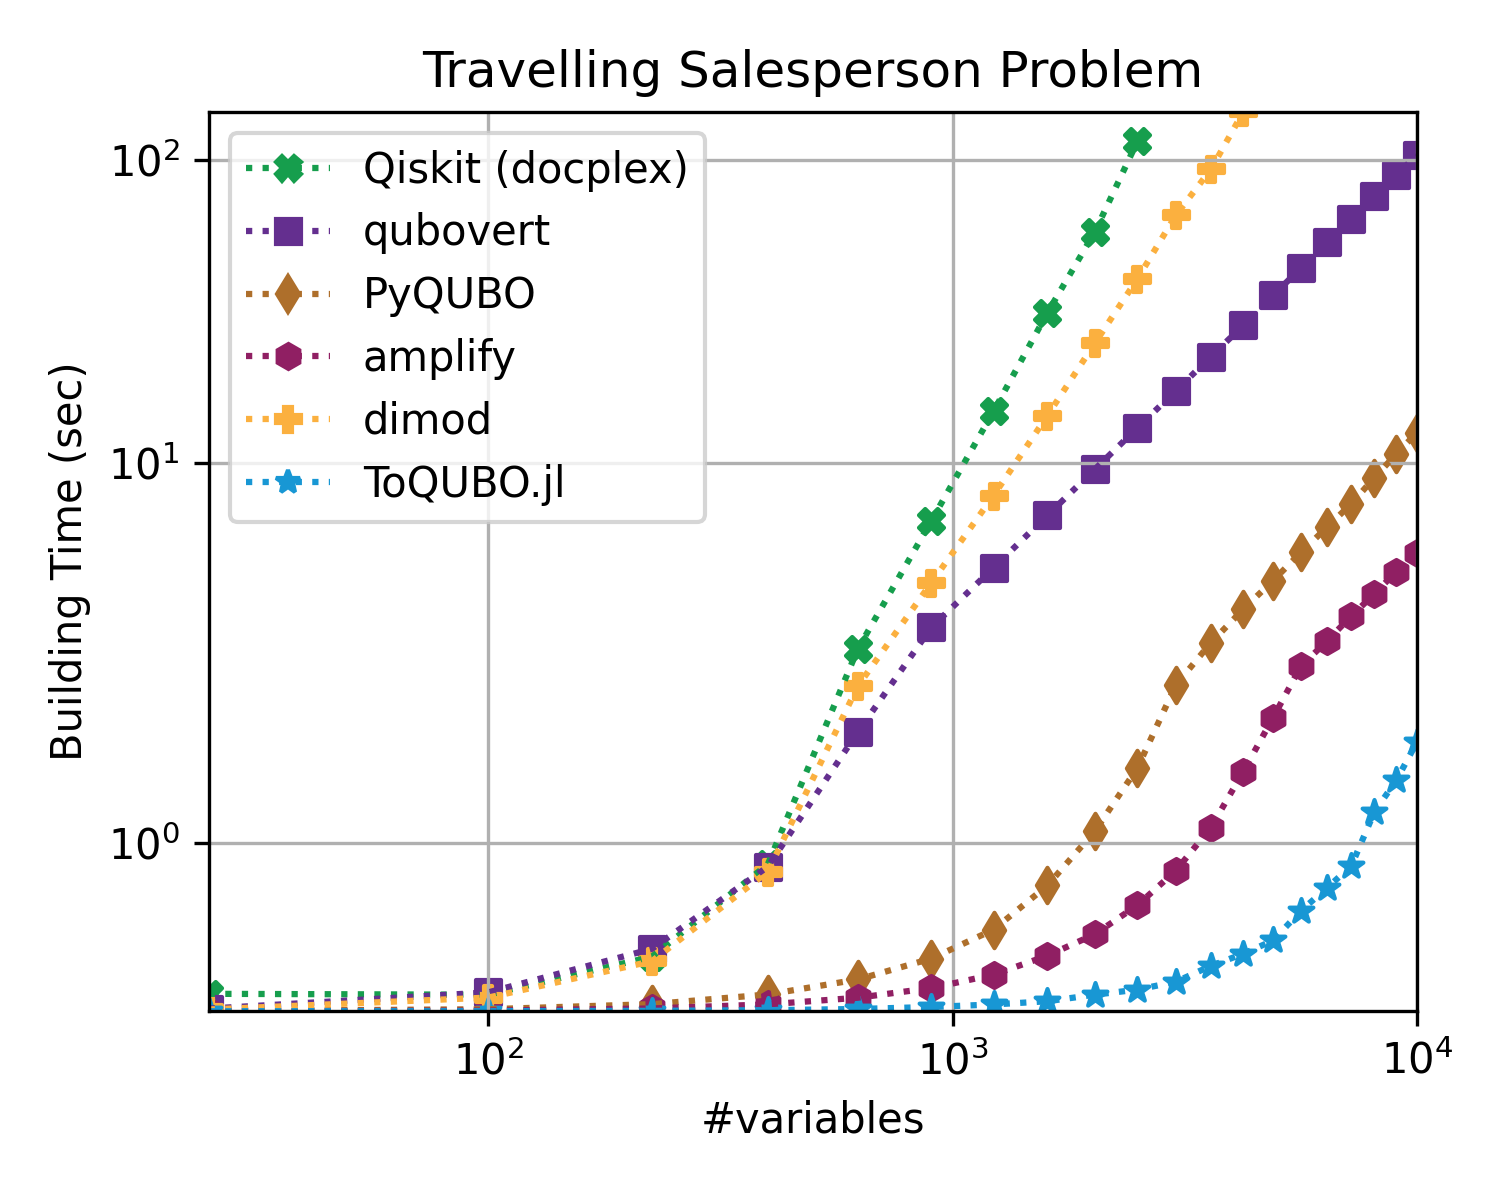
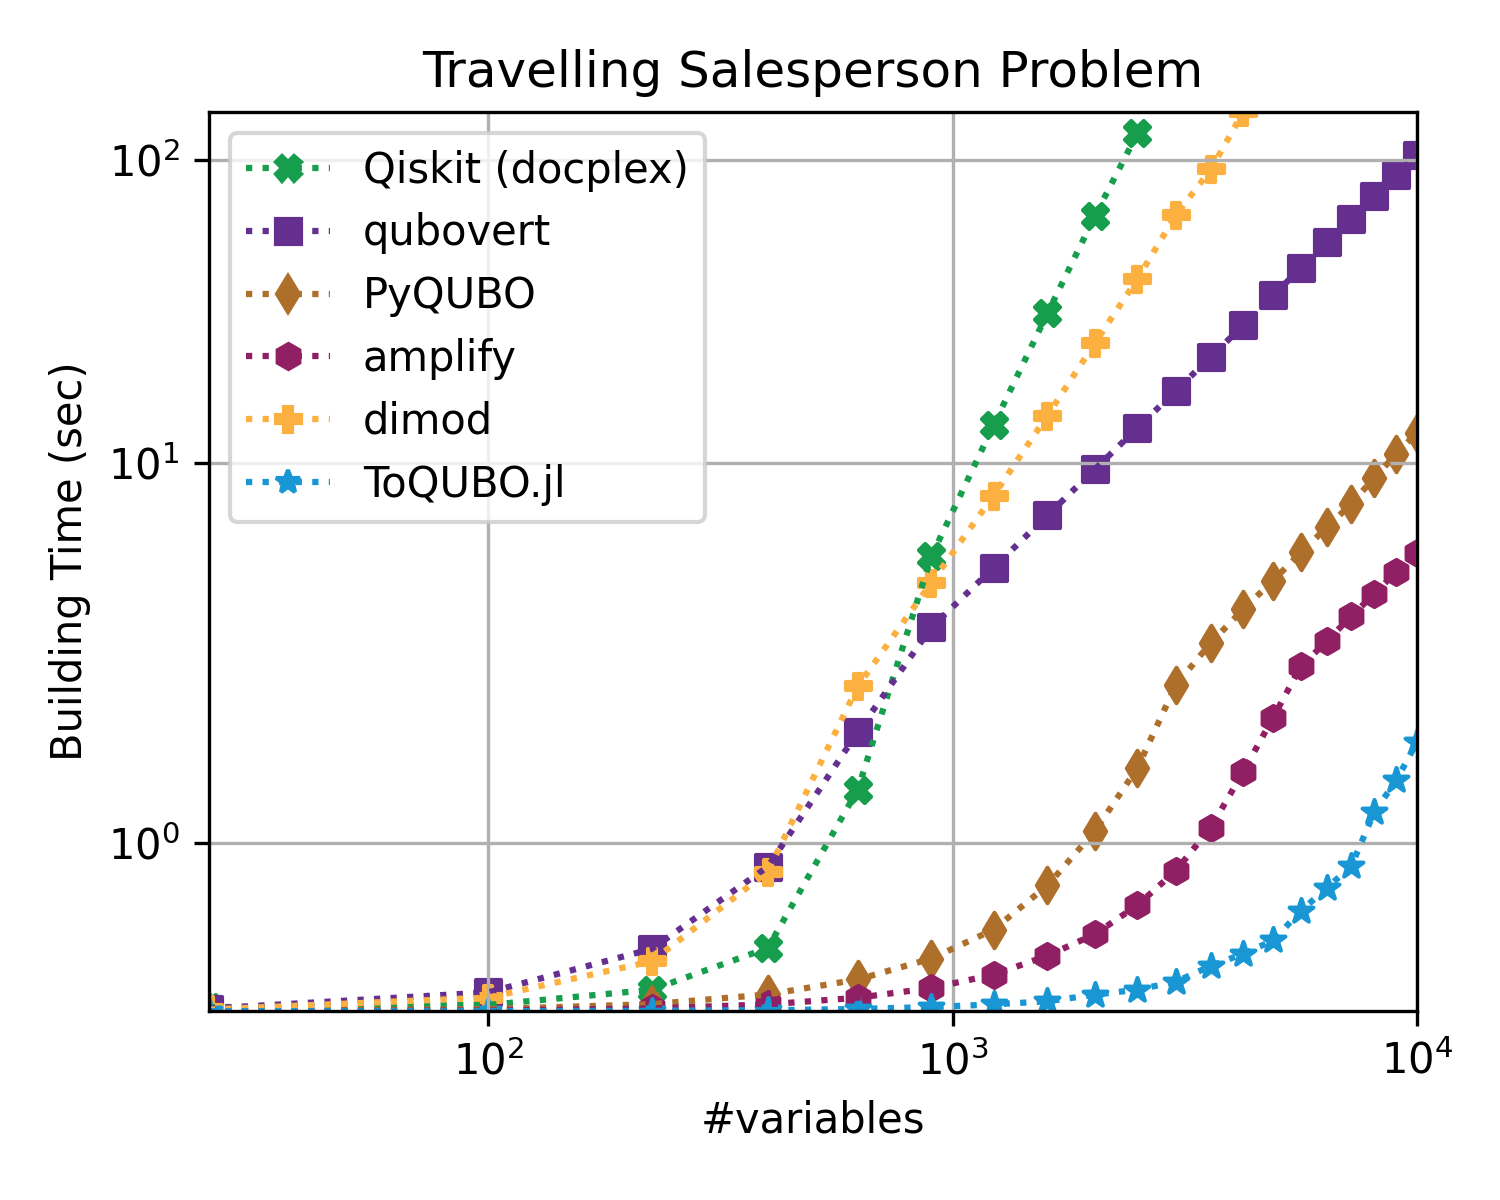
bench: refresh qiskit 2.4.2 results

diff --git a/tests/test_live_benchmark_report.py b/tests/test_live_benchmark_report.py
@@ -30,7 +30,7 @@ class LiveBenchmarkReportTests(unittest.TestCase):
         self.assertEqual(self.report["schema_version"], 1)
         self.assertEqual(
             self.report["result_set"]["status"],
-            "toqubo-0.5.1-rerun",
+            "qiskit-2.4.2-rerun",
         )
         self.assertEqual(self.report["result_set"]["refs_issue"], 12)
         self.assertIsNone(self.report["result_set"]["closes_issue"])
@@ -43,7 +43,8 @@ class LiveBenchmarkReportTests(unittest.TestCase):
         python_packages = self.report["packages"]["python"]
         julia_packages = self.report["packages"]["julia"]
 
-        self.assertEqual(python_packages["qiskit"], "2.4.1")
+        self.assertEqual(python_packages["qiskit"], "2.4.2")
+        self.assertEqual(python_packages["numpy"], "2.5.0")
         self.assertEqual(python_packages["qiskit-optimization"], "0.7.0")
         self.assertIsNone(python_packages["openqaoa"])
         self.assertEqual(julia_packages["ToQUBO"], "0.5.1")

diff --git a/scripts/write_benchmark_report.py b/scripts/write_benchmark_report.py
@@ -246,7 +246,7 @@ def main():
                 "status": "excluded",
                 "reason": (
                     "openqaoa==0.2.6 remains behind a Python version marker because "
-                    "it does not resolve on the Python 3.12 runtime used here."
+                    "it does not resolve on the current Python runtime used here."
                 ),
             },
             "toqubo_dependencies": toqubo_dependency_context(),

diff --git a/README.md b/README.md
@@ -36,15 +36,17 @@ archive directory such as `archive/modern-v1` instead of overwriting
 ## Current live result set
 
 The top-level CSV files currently contain
-`toqubo-0.5.1-qubotools-0.15.1-2026-06-24`, a diagnostic rerun of the ToQUBO
-results after ToQUBO.jl v0.5.1 and QUBOTools.jl v0.15.1 were available from the
-Julia General registry.
+`qiskit-2.4.2-numpy-2.5.0-2026-06-25`, a diagnostic refresh of the Qiskit
+results after updating Qiskit to v2.4.2 and the shared Python NumPy pin to
+v2.5.0. The ToQUBO result CSVs remain from the diagnostic rerun after ToQUBO.jl
+v0.5.1 and QUBOTools.jl v0.15.1 were available from the Julia General registry.
 The other live package CSVs remain from `latest-stack-2026-06-19-rerun`. This
-replaces the mixed-date latest-stack experiment from PR #11, but it is not
+extends the mixed-date latest-stack experiment from PR #11, but it is not
 archived as a paper-style fixed reference point.
 
 OpenQAOA is still excluded from the live run because `openqaoa==0.2.6` does not
-resolve on Python 3.12. The historical OpenQAOA rows remain available under
+resolve on the Python runtime used for the modern benchmark run. The historical
+OpenQAOA rows remain available under
 `archive/paper-v1`.
 
 The ToQUBO.jl benchmark uses `extract_qubo_backend` in
@@ -67,10 +69,10 @@ archived paper baseline.
 
 ## Environment
 
-| Linux  | GitHub Actions ubuntu-22.04 / x64 |
-| :----: | :-------------------------------: |
-| Python | CPython 3.12.13                  |
-| Julia  | julia version 1.12.6              |
+| Linux  | Linux 6.6.114.1 WSL2 / x86_64 |
+| :----: | :----------------------------: |
+| Python | CPython 3.13.5                 |
+| Julia  | julia version 1.12.6           |
 
 ## Packages
 
@@ -79,17 +81,17 @@ archived paper baseline.
 | ToQUBO.jl           | v0.5.1  |
 | QUBOTools.jl        | v0.15.1 |
 | PyQUBO              | v1.5.0  |
-| OpenQAOA            | excluded on Python 3.12 |
+| OpenQAOA            | excluded on Python >=3.11 |
 | qubovert            | v1.2.5  |
-| Qiskit              | v2.4.1  |
+| Qiskit              | v2.4.2  |
 | qiskit-optimization | v0.7.0  |
 | docplex             | v2.32.264 |
 | amplify             | v1.6.1  |
 | dimod               | v0.12.22 |
 
 The latest OpenQAOA release found on PyPI was `0.2.6`, but it does not resolve
-for the Python 3.12 runtime used by the modern benchmark run. The historical
-OpenQAOA results remain available in `archive/paper-v1`.
+for the Python runtime used by the modern benchmark run. The historical OpenQAOA
+results remain available in `archive/paper-v1`.
 
 The live ToQUBO result CSVs also include `compiler_time` for the `optimize!`
 step and `convert_time` for QUBOTools backend extraction. The `toqubo_time`